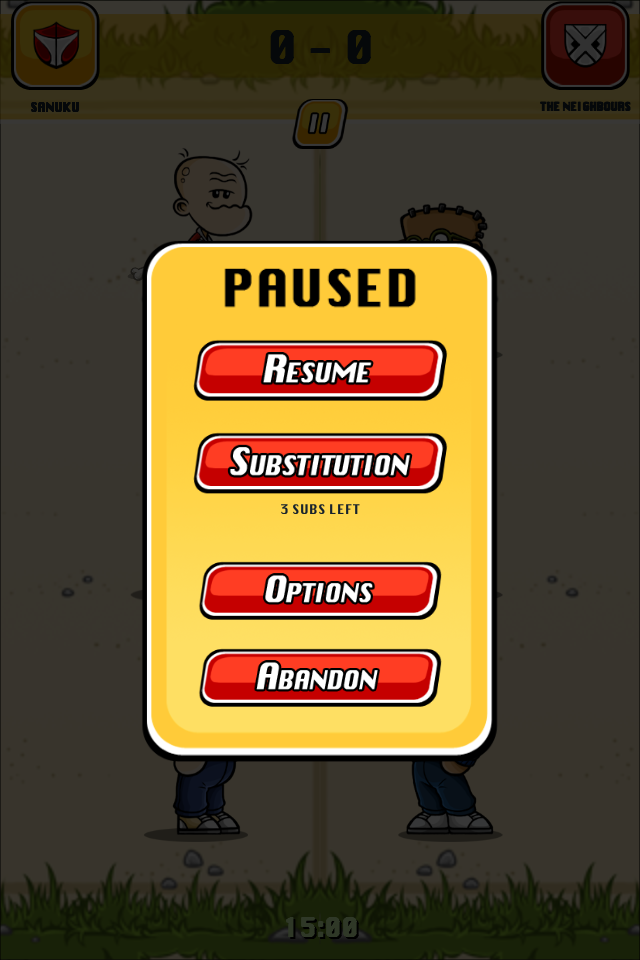
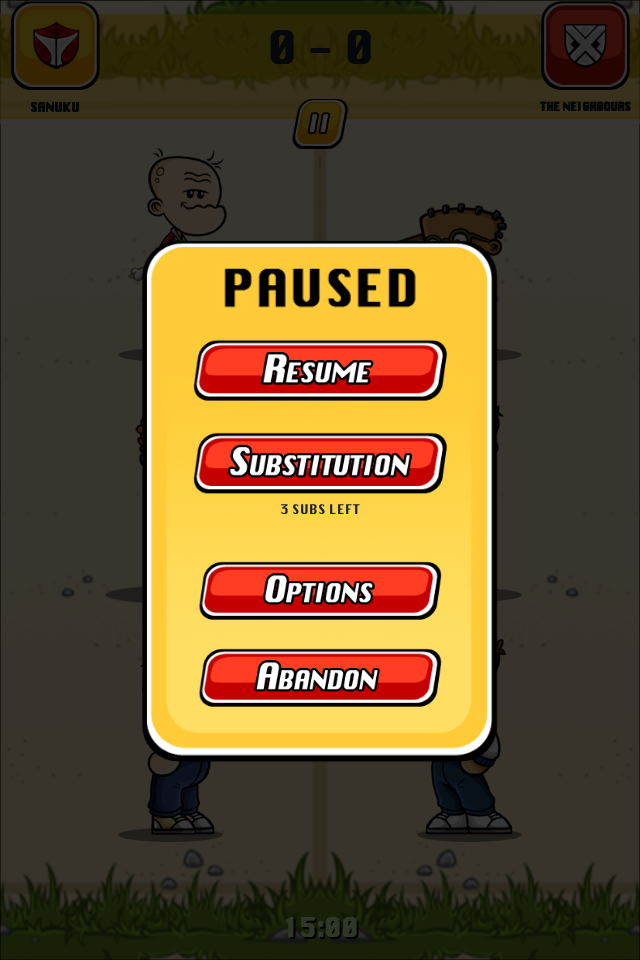
fix(match): optimize 1v1 and 3v3 player spacing and refine shake prompt to prevent player overlap

diff --git a/Assets/Scripts/DiceSoccerBootstrap.cs b/Assets/Scripts/DiceSoccerBootstrap.cs
@@ -1096,14 +1096,14 @@ namespace DiceSoccer
 
             // Duel Totals on sides of dice (matching media_1792421110113_45d0305f.png):
             _homeTotalText = AddText("", _matchPlayRoot, 50, new Color32(50, 45, 40, 255),
-                new Vector2(0.18f, 0.50f), new Vector2(0.18f, 0.50f));
+                new Vector2(0.14f, 0.50f), new Vector2(0.14f, 0.50f));
             _homeTotalText.rectTransform.sizeDelta = new Vector2(90f, 70f);
             _homeTotalText.fontStyle = FontStyle.Bold;
             _homeTotalText.alignment = TextAnchor.MiddleCenter;
             _homeTotalText.enabled = false;
 
             _awayTotalText = AddText("", _matchPlayRoot, 50, new Color32(50, 45, 40, 255),
-                new Vector2(0.83f, 0.50f), new Vector2(0.83f, 0.50f));
+                new Vector2(0.86f, 0.50f), new Vector2(0.86f, 0.50f));
             _awayTotalText.rectTransform.sizeDelta = new Vector2(90f, 70f);
             _awayTotalText.fontStyle = FontStyle.Bold;
             _awayTotalText.alignment = TextAnchor.MiddleCenter;
@@ -1136,7 +1136,7 @@ namespace DiceSoccer
             // Shake button & prompt in field center circle:
             _shakePrompt = AddResourceImage("ShakePrompt", "Original/sprites/Prompt1/Shake",
                 _matchPlayRoot, new Vector2(0.5f, 0.50f), new Vector2(0.5f, 0.50f));
-            _shakePrompt.rectTransform.sizeDelta = new Vector2(360f, 295f);
+            _shakePrompt.rectTransform.sizeDelta = new Vector2(215f, 176f);
             _shakePrompt.preserveAspect = true;
             _shakePrompt.raycastTarget = true;
             var shakeBtn = _shakePrompt.gameObject.AddComponent<Button>();
@@ -3247,6 +3247,7 @@ namespace DiceSoccer
             _matchReport.text = "Rolling the dice...";
 
             var loc = _match.Location;
+            var oldLocation = loc;
             var (activeHome, activeAway) = GetActiveDuelSlots(loc);
             float[] ys = { 0.25f, 0.50f, 0.75f };
 
@@ -3275,7 +3276,7 @@ namespace DiceSoccer
                     {
                         _homeDieRoots[i].SetActive(true);
                         float y = homeFaces.Length == 1 ? 0.50f : ys[i];
-                        float x = homeFaces.Length == 1 ? 0.35f : 0.31f;
+                        float x = homeFaces.Length == 1 ? (oldLocation == 2 ? 0.28f : 0.33f) : 0.27f;
                         _homeDieRoots[i].GetComponent<RectTransform>().anchorMin =
                             _homeDieRoots[i].GetComponent<RectTransform>().anchorMax = new Vector2(x, y);
                         if (_homeDice[i] != null) _homeDice[i].enabled = false;
@@ -3286,7 +3287,7 @@ namespace DiceSoccer
                     {
                         _awayDieRoots[i].SetActive(true);
                         float y = awayFaces.Length == 1 ? 0.50f : ys[i];
-                        float x = awayFaces.Length == 1 ? 0.65f : 0.70f;
+                        float x = awayFaces.Length == 1 ? (oldLocation == 2 ? 0.67f : 0.72f) : 0.73f;
                         _awayDieRoots[i].GetComponent<RectTransform>().anchorMin =
                             _awayDieRoots[i].GetComponent<RectTransform>().anchorMax = new Vector2(x, y);
                         if (_awayDice[i] != null) _awayDice[i].enabled = false;
@@ -3349,7 +3350,6 @@ namespace DiceSoccer
 
             var oldHomeScore = _match.HomeScore;
             var oldAwayScore = _match.AwayScore;
-            var oldLocation = _match.Location;
             var oldPossession = _match.Possession;
 
             var report = _match.CompleteEncounter();
@@ -3358,8 +3358,8 @@ namespace DiceSoccer
             // 5. Reveal duel totals with counting animation (matching arcade dice games)
             if (_homeTotalText != null && _awayTotalText != null)
             {
-                Vector2 hTotPos = new Vector2(0.18f, 0.50f);
-                Vector2 aTotPos = new Vector2(0.83f, 0.50f);
+                Vector2 hTotPos = new Vector2(0.14f, 0.50f);
+                Vector2 aTotPos = new Vector2(0.86f, 0.50f);
 
                 _homeTotalText.rectTransform.anchorMin = _homeTotalText.rectTransform.anchorMax = hTotPos;
                 _awayTotalText.rectTransform.anchorMin = _awayTotalText.rectTransform.anchorMax = aTotPos;
@@ -3481,7 +3481,7 @@ namespace DiceSoccer
                 }
 
                 // Animate ball shooting into the goal net with arc and rapid spin (0.42s flight)
-                var ballStart = _ballMarker != null ? _ballMarker.rectTransform.anchorMin : (homeScored ? new Vector2(0.435f, 0.418f) : new Vector2(0.565f, 0.418f));
+                var ballStart = _ballMarker != null ? _ballMarker.rectTransform.anchorMin : (homeScored ? new Vector2(0.335f, 0.40f) : new Vector2(0.665f, 0.40f));
                 var ballTarget = homeScored ? new Vector2(0.80f, 0.50f) : new Vector2(0.20f, 0.50f);
                 yield return StartCoroutine(SmoothPassBall(ballStart, ballTarget, 0.42f, true));
 
@@ -3526,8 +3526,8 @@ namespace DiceSoccer
                 }
 
                 // Ball shoots towards goalkeeper
-                var ballStart = _ballMarker != null ? _ballMarker.rectTransform.anchorMin : (homeShooting ? new Vector2(0.435f, 0.418f) : new Vector2(0.565f, 0.418f));
-                var ballTarget = homeShooting ? new Vector2(0.56f, 0.45f) : new Vector2(0.44f, 0.45f);
+                var ballStart = _ballMarker != null ? _ballMarker.rectTransform.anchorMin : (homeShooting ? new Vector2(0.335f, 0.40f) : new Vector2(0.665f, 0.40f));
+                var ballTarget = homeShooting ? new Vector2(0.65f, 0.45f) : new Vector2(0.35f, 0.45f);
 
                 // Goalkeeper leaps to parry the shot
                 if (goalie != null)
@@ -4974,7 +4974,7 @@ namespace DiceSoccer
                 var hRoot = new GameObject($"HomeDie{i + 1}", typeof(RectTransform), typeof(Image));
                 hRoot.transform.SetParent(parent, false);
                 var hRect = hRoot.GetComponent<RectTransform>();
-                hRect.anchorMin = hRect.anchorMax = new Vector2(0.31f, ys[i]);
+                hRect.anchorMin = hRect.anchorMax = new Vector2(0.27f, ys[i]);
                 hRect.sizeDelta = new Vector2(92f, 92f);
                 var hImg = hRoot.GetComponent<Image>();
                 hImg.sprite = GetUiSprite("Original/sprites/Buff6/DiceBackground");
@@ -5000,7 +5000,7 @@ namespace DiceSoccer
                 var aRoot = new GameObject($"AwayDie{i + 1}", typeof(RectTransform), typeof(Image));
                 aRoot.transform.SetParent(parent, false);
                 var aRect = aRoot.GetComponent<RectTransform>();
-                aRect.anchorMin = aRect.anchorMax = new Vector2(0.70f, ys[i]);
+                aRect.anchorMin = aRect.anchorMax = new Vector2(0.73f, ys[i]);
                 aRect.sizeDelta = new Vector2(92f, 92f);
                 var aImg = aRoot.GetComponent<Image>();
                 aImg.sprite = GetUiSprite("Original/sprites/Buff6/DiceBackground");
@@ -5228,11 +5228,11 @@ namespace DiceSoccer
             {
                 if (location == 2) // Home Striker attacking Away GK
                 {
-                    return possession == 0 ? new Vector2(0.435f, 0.395f) : new Vector2(0.565f, 0.395f);
+                    return possession == 0 ? new Vector2(0.335f, 0.395f) : new Vector2(0.625f, 0.395f);
                 }
                 else // Away Striker attacking Home GK
                 {
-                    return possession == 1 ? new Vector2(0.565f, 0.395f) : new Vector2(0.435f, 0.395f);
+                    return possession == 1 ? new Vector2(0.665f, 0.395f) : new Vector2(0.375f, 0.395f);
                 }
             }
 
@@ -5245,7 +5245,7 @@ namespace DiceSoccer
                 _ => 0.395f
             };
 
-            float x = possession == 0 ? 0.365f : 0.645f;
+            float x = possession == 0 ? 0.325f : 0.675f;
             return new Vector2(x, y);
         }
 
@@ -5397,7 +5397,7 @@ namespace DiceSoccer
                 var p = _homePlayers[slot];
                 p.gameObject.SetActive(true);
                 float y = activeHome.Length == 1 ? 0.38f : ys[i];
-                float x = activeHome.Length == 1 ? (loc == 2 ? 0.38f : 0.42f) : 0.31f;
+                float x = activeHome.Length == 1 ? (loc == 2 ? 0.28f : 0.33f) : 0.27f;
                 p.rectTransform.anchorMin = p.rectTransform.anchorMax = new Vector2(x, y);
                 p.rectTransform.anchoredPosition = Vector2.zero;
                 float currentScale = (_homePlayerScales != null && slot < _homePlayerScales.Length) ? _homePlayerScales[slot] : 1f;
@@ -5411,7 +5411,7 @@ namespace DiceSoccer
                 var p = _awayPlayers[slot];
                 p.gameObject.SetActive(true);
                 float y = activeAway.Length == 1 ? 0.38f : ys[i];
-                float x = activeAway.Length == 1 ? (loc == 2 ? 0.58f : 0.62f) : 0.70f;
+                float x = activeAway.Length == 1 ? (loc == 2 ? 0.67f : 0.72f) : 0.73f;
                 p.rectTransform.anchorMin = p.rectTransform.anchorMax = new Vector2(x, y);
                 p.rectTransform.anchoredPosition = Vector2.zero;
                 float currentScale = (_awayPlayerScales != null && slot < _awayPlayerScales.Length) ? _awayPlayerScales[slot] : 1f;
